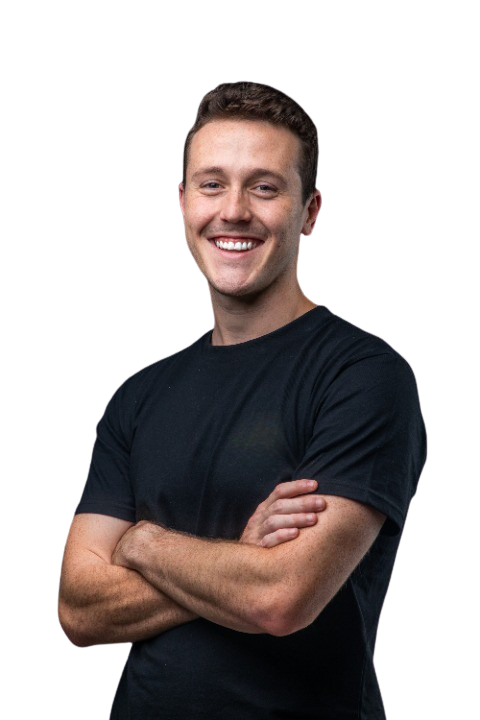
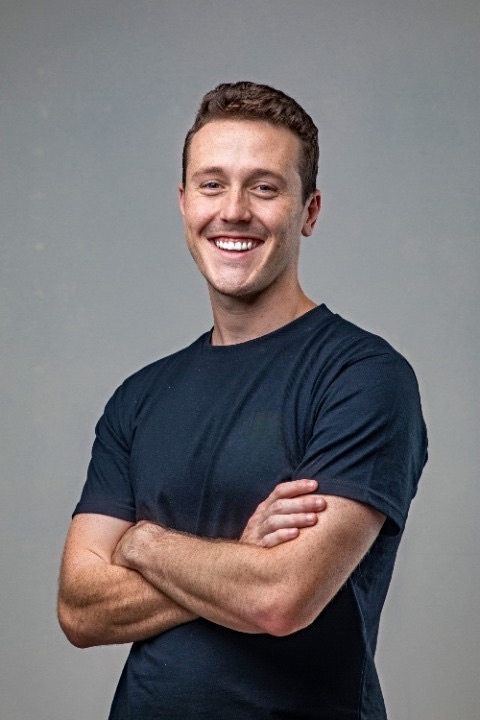
Update image with background

diff --git a/index.html b/index.html
@@ -2,25 +2,25 @@
 <html lang="en" dir="auto">
 
 <head>
-	<meta name="generator" content="Hugo 0.147.9"><script src="/livereload.js?mindelay=10&amp;v=2&amp;port=1313&amp;path=livereload" data-no-instant defer></script><meta charset="utf-8">
+	<meta name="generator" content="Hugo 0.147.9"><meta charset="utf-8">
 <meta http-equiv="X-UA-Compatible" content="IE=edge">
 <meta name="viewport" content="width=device-width, initial-scale=1, shrink-to-fit=no">
-<meta name="robots" content="noindex, nofollow">
+<meta name="robots" content="index, follow">
 <title>Alex Brogan</title>
 
 <meta name="description" content="">
 <meta name="author" content="">
-<link rel="canonical" href="http://localhost:1313/">
+<link rel="canonical" href="https://alexbrogan.com/">
 <link crossorigin="anonymous" href="/assets/css/stylesheet.8fe10233a706bc87f2e08b3cf97b8bd4c0a80f10675a143675d59212121037c0.css" integrity="sha256-j&#43;ECM6cGvIfy4Is8&#43;XuL1MCoDxBnWhQ2ddWSEhIQN8A=" rel="preload stylesheet" as="style">
-<link rel="icon" href="http://localhost:1313/favicon.ico">
-<link rel="icon" type="image/png" sizes="16x16" href="http://localhost:1313/favicon-16x16.png">
-<link rel="icon" type="image/png" sizes="32x32" href="http://localhost:1313/favicon-32x32.png">
-<link rel="apple-touch-icon" href="http://localhost:1313/apple-touch-icon.png">
-<link rel="mask-icon" href="http://localhost:1313/safari-pinned-tab.svg">
+<link rel="icon" href="https://alexbrogan.com/favicon.ico">
+<link rel="icon" type="image/png" sizes="16x16" href="https://alexbrogan.com/favicon-16x16.png">
+<link rel="icon" type="image/png" sizes="32x32" href="https://alexbrogan.com/favicon-32x32.png">
+<link rel="apple-touch-icon" href="https://alexbrogan.com/apple-touch-icon.png">
+<link rel="mask-icon" href="https://alexbrogan.com/safari-pinned-tab.svg">
 <meta name="theme-color" content="#2e2e33">
 <meta name="msapplication-TileColor" content="#2e2e33">
-<link rel="alternate" type="application/rss+xml" href="http://localhost:1313/index.xml">
-<link rel="alternate" hreflang="en" href="http://localhost:1313/">
+<link rel="alternate" type="application/rss+xml" href="https://alexbrogan.com/index.xml">
+<link rel="alternate" hreflang="en" href="https://alexbrogan.com/">
 <noscript>
     <style>
         #theme-toggle,
@@ -57,7 +57,32 @@
         }
 
     </style>
-</noscript>
+</noscript><meta property="og:url" content="https://alexbrogan.com/">
+  <meta property="og:site_name" content="Alex Brogan">
+  <meta property="og:title" content="Alex Brogan">
+  <meta property="og:description" content=" I live in Sydney and am currently founding something new. I grew up in Perth, Western Australia.
+Email: alex@alexbrogan.com
+Things I’m working on and interested in:
+AI. My (long) note on artificial intelligence. Previously I built and sold an AI media company. Improving human relationships. Maple is reversing the negative disruptive forces of social media. Investing. Current areas of interest are AI, consumer, &amp; physical world. I’m a scout for AirTree Ventures (~$1.3bn fund). I’ve invested in more than 15 startups. History. Faster Than Normal is my outlet to study history’s greatest people. Music. I am a big Rufus Du Sol fan. Competition. In a previous life, I played Water Polo for Australia. Elsewhere">
+  <meta property="og:locale" content="en-us">
+  <meta property="og:type" content="website">
+<meta name="twitter:card" content="summary">
+<meta name="twitter:title" content="Alex Brogan">
+<meta name="twitter:description" content="">
+
+<script type="application/ld+json">
+{
+  "@context": "https://schema.org",
+  "@type": "Organization",
+  "name": "Alex Brogan",
+  "url": "https://alexbrogan.com/",
+  "description": "",
+  "logo": "https://alexbrogan.com/favicon.ico",
+  "sameAs": [
+      
+  ]
+}
+</script>
 </head>
 
 <body class="list" id="top">
@@ -75,7 +100,7 @@
 <header class="header">
     <nav class="nav">
         <div class="logo">
-            <a href="http://localhost:1313/" accesskey="h" title="Alex Brogan (Alt + H)">Alex Brogan</a>
+            <a href="https://alexbrogan.com/" accesskey="h" title="Alex Brogan (Alt + H)">Alex Brogan</a>
             <div class="logo-switches">
                 <button id="theme-toggle" accesskey="t" title="(Alt + T)" aria-label="Toggle theme">
                     <svg id="moon" xmlns="http://www.w3.org/2000/svg" width="24" height="18" viewBox="0 0 24 24"
@@ -104,7 +129,7 @@
     </nav>
 </header>
 <main class="main"> 
-<div class="post-content"><img src="/images/AlexB-7-Website_Final.jpeg" width="200" />
+<div class="post-content"><img src="/images/AlexB-7-Website_Final.jpeg" alt="Alex Brogan" style="max-width: 200px; height: auto; border-radius: 8px;" />
 <p>I live in Sydney and am currently founding something new. I grew up in Perth, Western Australia.<br>
 Email: <a href="mailto:alex@alexbrogan.com">alex@alexbrogan.com</a></p>
 <hr>
@@ -112,10 +137,10 @@ Email: <a href="mailto:alex@alexbrogan.com">alex@alexbrogan.com</a></p>
 <ul>
 <li><strong>AI.</strong> <a href="https://www.thelastinvention.ai/">My (long) note</a> on artificial intelligence. Previously I built and sold an AI media company.</li>
 <li><strong>Improving human relationships.</strong> <a href="https://datewithmaple.com/">Maple</a> is reversing the negative disruptive forces of social media.</li>
-<li><strong>Investing.</strong> Current areas of interest are AI, consumer, &amp; physical world. I’m a scout for AirTree Ventures (~$1.3bn fund). I’ve invested in more than 15 startups.</li>
+<li><strong>Investing.</strong> Current areas of interest are AI, consumer, &amp; physical world. I’m a scout for <a href="https://www.airtree.vc/">AirTree Ventures</a> (~$1.3bn fund). I’ve invested in more than 15 startups.</li>
 <li><strong>History.</strong> <a href="https://fasterthannormal.co/">Faster Than Normal</a> is my outlet to study history’s greatest people.</li>
 <li><strong>Music.</strong> I am a big Rufus Du Sol fan.</li>
-<li><strong>Competition.</strong> In a previous life, I played Water Polo for Australia.</li>
+<li><strong>Competition.</strong> In a previous life, I played <a href="https://cdn.revolutionise.com.au/cups/wpal/files/mekwdzjayjh1ia9j.pdf">Water Polo for Australia</a>.</li>
 </ul>
 <hr>
 <p><strong>Elsewhere</strong></p>
@@ -137,7 +162,7 @@ Email: <a href="mailto:alex@alexbrogan.com">alex@alexbrogan.com</a></p>
     </main>
     
 <footer class="footer">
-        <span>&copy; 2025 <a href="http://localhost:1313/">Alex Brogan</a></span> · 
+        <span>&copy; 2025 <a href="https://alexbrogan.com/">Alex Brogan</a></span> · 
 
     <span>
         Powered by

diff --git a/categories/index.html b/categories/index.html
@@ -1,25 +1,25 @@
 <!DOCTYPE html>
 <html lang="en" dir="auto">
 
-<head><script src="/livereload.js?mindelay=10&amp;v=2&amp;port=1313&amp;path=livereload" data-no-instant defer></script><meta charset="utf-8">
+<head><meta charset="utf-8">
 <meta http-equiv="X-UA-Compatible" content="IE=edge">
 <meta name="viewport" content="width=device-width, initial-scale=1, shrink-to-fit=no">
-<meta name="robots" content="noindex, nofollow">
+<meta name="robots" content="index, follow">
 <title>Categories | Alex Brogan</title>
 <meta name="keywords" content="">
 <meta name="description" content="">
 <meta name="author" content="">
-<link rel="canonical" href="http://localhost:1313/categories/">
+<link rel="canonical" href="https://alexbrogan.com/categories/">
 <link crossorigin="anonymous" href="/assets/css/stylesheet.8fe10233a706bc87f2e08b3cf97b8bd4c0a80f10675a143675d59212121037c0.css" integrity="sha256-j&#43;ECM6cGvIfy4Is8&#43;XuL1MCoDxBnWhQ2ddWSEhIQN8A=" rel="preload stylesheet" as="style">
-<link rel="icon" href="http://localhost:1313/favicon.ico">
-<link rel="icon" type="image/png" sizes="16x16" href="http://localhost:1313/favicon-16x16.png">
-<link rel="icon" type="image/png" sizes="32x32" href="http://localhost:1313/favicon-32x32.png">
-<link rel="apple-touch-icon" href="http://localhost:1313/apple-touch-icon.png">
-<link rel="mask-icon" href="http://localhost:1313/safari-pinned-tab.svg">
+<link rel="icon" href="https://alexbrogan.com/favicon.ico">
+<link rel="icon" type="image/png" sizes="16x16" href="https://alexbrogan.com/favicon-16x16.png">
+<link rel="icon" type="image/png" sizes="32x32" href="https://alexbrogan.com/favicon-32x32.png">
+<link rel="apple-touch-icon" href="https://alexbrogan.com/apple-touch-icon.png">
+<link rel="mask-icon" href="https://alexbrogan.com/safari-pinned-tab.svg">
 <meta name="theme-color" content="#2e2e33">
 <meta name="msapplication-TileColor" content="#2e2e33">
-<link rel="alternate" type="application/rss+xml" href="http://localhost:1313/categories/index.xml">
-<link rel="alternate" hreflang="en" href="http://localhost:1313/categories/">
+<link rel="alternate" type="application/rss+xml" href="https://alexbrogan.com/categories/index.xml">
+<link rel="alternate" hreflang="en" href="https://alexbrogan.com/categories/">
 <noscript>
     <style>
         #theme-toggle,
@@ -56,7 +56,15 @@
         }
 
     </style>
-</noscript>
+</noscript><meta property="og:url" content="https://alexbrogan.com/categories/">
+  <meta property="og:site_name" content="Alex Brogan">
+  <meta property="og:title" content="Categories">
+  <meta property="og:locale" content="en-us">
+  <meta property="og:type" content="website">
+<meta name="twitter:card" content="summary">
+<meta name="twitter:title" content="Categories">
+<meta name="twitter:description" content="">
+
 </head>
 
 <body class="list" id="top">
@@ -74,7 +82,7 @@
 <header class="header">
     <nav class="nav">
         <div class="logo">
-            <a href="http://localhost:1313/" accesskey="h" title="Alex Brogan (Alt + H)">Alex Brogan</a>
+            <a href="https://alexbrogan.com/" accesskey="h" title="Alex Brogan (Alt + H)">Alex Brogan</a>
             <div class="logo-switches">
                 <button id="theme-toggle" accesskey="t" title="(Alt + T)" aria-label="Toggle theme">
                     <svg id="moon" xmlns="http://www.w3.org/2000/svg" width="24" height="18" viewBox="0 0 24 24"
@@ -112,7 +120,7 @@
     </main>
     
 <footer class="footer">
-        <span>&copy; 2025 <a href="http://localhost:1313/">Alex Brogan</a></span> · 
+        <span>&copy; 2025 <a href="https://alexbrogan.com/">Alex Brogan</a></span> · 
 
     <span>
         Powered by

diff --git a/tags/index.html b/tags/index.html
@@ -1,25 +1,25 @@
 <!DOCTYPE html>
 <html lang="en" dir="auto">
 
-<head><script src="/livereload.js?mindelay=10&amp;v=2&amp;port=1313&amp;path=livereload" data-no-instant defer></script><meta charset="utf-8">
+<head><meta charset="utf-8">
 <meta http-equiv="X-UA-Compatible" content="IE=edge">
 <meta name="viewport" content="width=device-width, initial-scale=1, shrink-to-fit=no">
-<meta name="robots" content="noindex, nofollow">
+<meta name="robots" content="index, follow">
 <title>Tags | Alex Brogan</title>
 <meta name="keywords" content="">
 <meta name="description" content="">
 <meta name="author" content="">
-<link rel="canonical" href="http://localhost:1313/tags/">
+<link rel="canonical" href="https://alexbrogan.com/tags/">
 <link crossorigin="anonymous" href="/assets/css/stylesheet.8fe10233a706bc87f2e08b3cf97b8bd4c0a80f10675a143675d59212121037c0.css" integrity="sha256-j&#43;ECM6cGvIfy4Is8&#43;XuL1MCoDxBnWhQ2ddWSEhIQN8A=" rel="preload stylesheet" as="style">
-<link rel="icon" href="http://localhost:1313/favicon.ico">
-<link rel="icon" type="image/png" sizes="16x16" href="http://localhost:1313/favicon-16x16.png">
-<link rel="icon" type="image/png" sizes="32x32" href="http://localhost:1313/favicon-32x32.png">
-<link rel="apple-touch-icon" href="http://localhost:1313/apple-touch-icon.png">
-<link rel="mask-icon" href="http://localhost:1313/safari-pinned-tab.svg">
+<link rel="icon" href="https://alexbrogan.com/favicon.ico">
+<link rel="icon" type="image/png" sizes="16x16" href="https://alexbrogan.com/favicon-16x16.png">
+<link rel="icon" type="image/png" sizes="32x32" href="https://alexbrogan.com/favicon-32x32.png">
+<link rel="apple-touch-icon" href="https://alexbrogan.com/apple-touch-icon.png">
+<link rel="mask-icon" href="https://alexbrogan.com/safari-pinned-tab.svg">
 <meta name="theme-color" content="#2e2e33">
 <meta name="msapplication-TileColor" content="#2e2e33">
-<link rel="alternate" type="application/rss+xml" href="http://localhost:1313/tags/index.xml">
-<link rel="alternate" hreflang="en" href="http://localhost:1313/tags/">
+<link rel="alternate" type="application/rss+xml" href="https://alexbrogan.com/tags/index.xml">
+<link rel="alternate" hreflang="en" href="https://alexbrogan.com/tags/">
 <noscript>
     <style>
         #theme-toggle,
@@ -56,7 +56,15 @@
         }
 
     </style>
-</noscript>
+</noscript><meta property="og:url" content="https://alexbrogan.com/tags/">
+  <meta property="og:site_name" content="Alex Brogan">
+  <meta property="og:title" content="Tags">
+  <meta property="og:locale" content="en-us">
+  <meta property="og:type" content="website">
+<meta name="twitter:card" content="summary">
+<meta name="twitter:title" content="Tags">
+<meta name="twitter:description" content="">
+
 </head>
 
 <body class="list" id="top">
@@ -74,7 +82,7 @@
 <header class="header">
     <nav class="nav">
         <div class="logo">
-            <a href="http://localhost:1313/" accesskey="h" title="Alex Brogan (Alt + H)">Alex Brogan</a>
+            <a href="https://alexbrogan.com/" accesskey="h" title="Alex Brogan (Alt + H)">Alex Brogan</a>
             <div class="logo-switches">
                 <button id="theme-toggle" accesskey="t" title="(Alt + T)" aria-label="Toggle theme">
                     <svg id="moon" xmlns="http://www.w3.org/2000/svg" width="24" height="18" viewBox="0 0 24 24"
@@ -112,7 +120,7 @@
     </main>
     
 <footer class="footer">
-        <span>&copy; 2025 <a href="http://localhost:1313/">Alex Brogan</a></span> · 
+        <span>&copy; 2025 <a href="https://alexbrogan.com/">Alex Brogan</a></span> · 
 
     <span>
         Powered by

diff --git a/404.html b/404.html
@@ -1,24 +1,24 @@
 <!DOCTYPE html>
 <html lang="en" dir="auto">
 
-<head><script src="/livereload.js?mindelay=10&amp;v=2&amp;port=1313&amp;path=livereload" data-no-instant defer></script><meta charset="utf-8">
+<head><meta charset="utf-8">
 <meta http-equiv="X-UA-Compatible" content="IE=edge">
 <meta name="viewport" content="width=device-width, initial-scale=1, shrink-to-fit=no">
-<meta name="robots" content="noindex, nofollow">
+<meta name="robots" content="index, follow">
 <title>404 Page not found | Alex Brogan</title>
 <meta name="keywords" content="">
 <meta name="description" content="">
 <meta name="author" content="">
-<link rel="canonical" href="http://localhost:1313/404.html">
+<link rel="canonical" href="https://alexbrogan.com/404.html">
 <link crossorigin="anonymous" href="/assets/css/stylesheet.8fe10233a706bc87f2e08b3cf97b8bd4c0a80f10675a143675d59212121037c0.css" integrity="sha256-j&#43;ECM6cGvIfy4Is8&#43;XuL1MCoDxBnWhQ2ddWSEhIQN8A=" rel="preload stylesheet" as="style">
-<link rel="icon" href="http://localhost:1313/favicon.ico">
-<link rel="icon" type="image/png" sizes="16x16" href="http://localhost:1313/favicon-16x16.png">
-<link rel="icon" type="image/png" sizes="32x32" href="http://localhost:1313/favicon-32x32.png">
-<link rel="apple-touch-icon" href="http://localhost:1313/apple-touch-icon.png">
-<link rel="mask-icon" href="http://localhost:1313/safari-pinned-tab.svg">
+<link rel="icon" href="https://alexbrogan.com/favicon.ico">
+<link rel="icon" type="image/png" sizes="16x16" href="https://alexbrogan.com/favicon-16x16.png">
+<link rel="icon" type="image/png" sizes="32x32" href="https://alexbrogan.com/favicon-32x32.png">
+<link rel="apple-touch-icon" href="https://alexbrogan.com/apple-touch-icon.png">
+<link rel="mask-icon" href="https://alexbrogan.com/safari-pinned-tab.svg">
 <meta name="theme-color" content="#2e2e33">
 <meta name="msapplication-TileColor" content="#2e2e33">
-<link rel="alternate" hreflang="en" href="http://localhost:1313/404.html">
+<link rel="alternate" hreflang="en" href="https://alexbrogan.com/404.html">
 <noscript>
     <style>
         #theme-toggle,
@@ -55,7 +55,15 @@
         }
 
     </style>
-</noscript>
+</noscript><meta property="og:url" content="https://alexbrogan.com/404.html">
+  <meta property="og:site_name" content="Alex Brogan">
+  <meta property="og:title" content="404 Page not found">
+  <meta property="og:locale" content="en-us">
+  <meta property="og:type" content="website">
+<meta name="twitter:card" content="summary">
+<meta name="twitter:title" content="404 Page not found">
+<meta name="twitter:description" content="">
+
 </head>
 
 <body class="list" id="top">
@@ -73,7 +81,7 @@
 <header class="header">
     <nav class="nav">
         <div class="logo">
-            <a href="http://localhost:1313/" accesskey="h" title="Alex Brogan (Alt + H)">Alex Brogan</a>
+            <a href="https://alexbrogan.com/" accesskey="h" title="Alex Brogan (Alt + H)">Alex Brogan</a>
             <div class="logo-switches">
                 <button id="theme-toggle" accesskey="t" title="(Alt + T)" aria-label="Toggle theme">
                     <svg id="moon" xmlns="http://www.w3.org/2000/svg" width="24" height="18" viewBox="0 0 24 24"
@@ -106,7 +114,7 @@
     </main>
     
 <footer class="footer">
-        <span>&copy; 2025 <a href="http://localhost:1313/">Alex Brogan</a></span> · 
+        <span>&copy; 2025 <a href="https://alexbrogan.com/">Alex Brogan</a></span> · 
 
     <span>
         Powered by

diff --git a/page/1/index.html b/page/1/index.html
@@ -1,10 +1,10 @@
 <!DOCTYPE html>
 <html lang="en-us">
   <head>
-    <title>http://localhost:1313/</title>
-    <link rel="canonical" href="http://localhost:1313/">
+    <title>https://alexbrogan.com/</title>
+    <link rel="canonical" href="https://alexbrogan.com/">
     <meta name="robots" content="noindex">
     <meta charset="utf-8">
-    <meta http-equiv="refresh" content="0; url=http://localhost:1313/">
+    <meta http-equiv="refresh" content="0; url=https://alexbrogan.com/">
   </head>
 </html>
